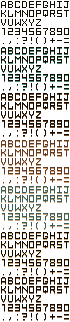
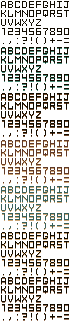
Add files via upload

diff --git a/ui.py b/ui.py
@@ -3,6 +3,7 @@ import math
 import random
 from classes import Player
 from fonts import *
+import fonts
 import dialogues
 from settings import *
 
@@ -10,17 +11,129 @@ pygame.init()
 
 health_font = pygame.font.SysFont("Ebrima", 20, bold=True)
 
-def draw_health(screen, player):
-    health_ratio = player.hp / player.max_hp
+# --- Cadres de barres pixel art (Health_bar.png / Xp_bar.png) ---
+# Chaque cadre est charge UNE seule fois, decoupe sur sa zone utile
+# puis agrandi sans lisser (scale_by = pixels carres nets).
+# Le remplissage (rouge/vert PV, bleu XP) est dessine DERRIERE le
+# cadre : on ne peint que les pixels TRANSPARENTS interieurs
+# (detectes une fois pour toutes), le cadre reste donc intact.
+BAR_SCALE = 5                    # densite de pixels commune aux 2 barres
+HP_BAR_POS = (20, 20)            # barre de vie en haut a gauche
+XP_BAR_POS = (20, 89)            # barre d'xp, juste sous les PV          # barre d'xp, juste sous les PV
 
-    pygame.draw.rect(screen, (255, 0, 0), (20, 20, 300, 30))
-    pygame.draw.rect(screen, (0, 255, 50), (20, 20, 300 * health_ratio, 30))
-    pygame.draw.rect(screen, (255, 255, 255), (20, 20, 300, 30), 3)
-        # pv / pv max affiches en blanc SUR la barre (vert ou rouge),
-    # sans changer sa taille. Fonction pour tous les soins
+
+
+def _runs_transparents(surface, y):
+    # liste des runs [x0, x1] de pixels transparents sur la ligne y
+    largeur = surface.get_width()
+    runs, cur = [], None
+    for x in range(largeur):
+        if surface.get_at((x, y))[3] == 0:
+            cur = [x, x] if cur is None else [cur[0], x]
+        else:
+            if cur:
+                runs.append(cur)
+                cur = None
+    if cur:
+        runs.append(cur)
+    return runs
+
+def _preparer_barre(chemin, y0, y1):
+    # charge le PNG, garde la bande (0, y0) -> (largeur, y1), detecte
+    # les fenetres interieures (runs transparents bordes d'opaque des
+    # deux cotes) et renvoie (zone, spans, cadre agrandi)
+    img = pygame.image.load(chemin).convert_alpha()
+    zone = img.subsurface((0, y0, img.get_width(), y1 - y0))
+    spans = {}
+    for y in range(zone.get_height()):
+        # un run qui touche un bord de la zone n'est pas remplissable
+        spans[y] = [tuple(r) for r in _runs_transparents(zone, y)
+                    if r[0] > 0 and r[1] < zone.get_width() - 1]
+    cadre = pygame.transform.scale_by(zone, BAR_SCALE)
+    return zone, spans, cadre
+
+HP_ZONE, HP_SPANS, HP_CADRE = _preparer_barre("Health_bar.png", 26, 38)
+XP_ZONE, XP_SPANS, XP_CADRE = _preparer_barre("Xp_bar.png", 0, 6)
+
+def _centre_fenetre(spans):
+    # centre (x, y) de la grande fenetre de remplissage (pour le texte)
+    ys = [y for y, runs in spans.items()
+          if any(r[1] - r[0] + 1 >= 30 for r in runs)]
+    meilleure = max((r for y in ys for r in spans[y]),
+                    key=lambda r: r[1] - r[0])
+    return ((meilleure[0] + meilleure[1] + 1) / 2,
+            (min(ys) + max(ys) + 1) / 2)
+
+HP_CENTRE = _centre_fenetre(HP_SPANS)
+
+def _remplissage_barre(zone, spans, ratio, couleur_fond, couleur_jauge):
+    # long rectangle coupe en biseau au lieu de remplir chaque fenetre :
+    # fond et jauge sont dessines d'un trait, 1 px plus LARGE que la
+    # fenetre, et le cadre opaque recouvre le surplus (le vert passe
+    # donc SOUS le bord en diagonale du cadre)
+    surf = zone.copy()
+    lignes = [(y, runs[0]) for y, runs in sorted(spans.items()) if runs]
+    if lignes:
+        gauche = min(r[0] for _, r in lignes)
+        y_ref, r_ref = max(lignes, key=lambda t: t[1][1])
+        droit_max = r_ref[1]
+        total = droit_max - gauche + 1
+        limite = gauche + int(total * ratio)      # bord vertical de la jauge
+        for y, _ in lignes:
+            droit = droit_max - (y - y_ref) + 1   # biseau parallele au cadre
+            pygame.draw.line(surf, couleur_fond, (gauche, y), (droit, y))
+            if limite > gauche:
+                pygame.draw.line(surf, couleur_jauge, (gauche, y),
+                                 (min(droit, limite - 1), y))
+    return pygame.transform.scale_by(surf, BAR_SCALE)
+HP_TEXT_SCALE = 2     # chiffres 7x9 de Text3 agrandis x2 (~18 px de haut)
+
+def _draw_hp_text(screen, texte, cx, cy, echelle=None, centered=True,
+                  police=None):
+    # "X/Y" centre sur (cx, cy) : chiffres blancs de Text3 (planche
+    # titre, meme grille que Text1) et slash blanc normal dessine a
+    # la main (la planche n'a pas de glyphe "/").
+    if echelle is None:
+        echelle = HP_TEXT_SCALE
+    if police is None:
+        police = fonts.lettersT3
+    haut = 9 * echelle
+    slash_largeur = 4 * echelle
+    largeur = 0
+    for char in texte:
+        if char == "/":
+            largeur += slash_largeur
+        elif char in police:
+            largeur += 7 * echelle
+        largeur += echelle                      # petit ecart
+    largeur -= echelle
+    x = cx - largeur // 2
+    y = cy - haut // 2
+    for char in texte:
+        if char == "/":
+            pygame.draw.line(screen, (255, 255, 255),
+                             (x, y + haut - 1),
+                             (x + slash_largeur - echelle, y + 1), echelle)
+            x += slash_largeur + echelle
+        elif char in police:
+            sprite = pygame.transform.scale(fonts.lettersT3[char],
+                                            (7 * echelle, haut))
+            screen.blit(sprite, (x, y))
+            x += 7 * echelle + echelle
+def draw_health(screen, player):
+    health_ratio = max(0, min(1, player.hp / player.max_hp))
+
+    # fond rouge puis jauge verte DERRIERE le cadre de fer pixel art
+    remplissage = _remplissage_barre(HP_ZONE, HP_SPANS, health_ratio,
+                                     (255, 0, 0), (0, 255, 50))
+    screen.blit(remplissage, HP_BAR_POS)
+    screen.blit(HP_CADRE, HP_BAR_POS)
+    # pv / pv max affiches en blanc SUR la fenetre de la barre (vert ou
+    # rouge), sans changer sa taille. Fonction pour tous les soins
     # (potion, pomme doree, healer) car tout passe par player.hp/max_hp.
-    hp_text = health_font.render(f"{int(player.hp)}/{int(player.max_hp)}", True, (255, 255, 255))
-    screen.blit(hp_text, (20 + (300 - hp_text.get_width()) // 2, 20 + (30 - hp_text.get_height()) // 2))
+    cx = HP_BAR_POS[0] + 3+int(HP_CENTRE[0] * BAR_SCALE)
+    cy = HP_BAR_POS[1] + int(HP_CENTRE[1] * BAR_SCALE)
+    _draw_hp_text(screen, f"{int(player.hp)}/{int(player.max_hp)}", cx, cy)
 
 def draw_level(screen, current_level, current_wave, game_state):
     level_text = font.render(f"Niveau {current_level}", True, (255, 255, 255))
@@ -53,26 +166,30 @@ def draw_transition(screen, transition, current_level, current_wave, game_state)
     screen.blit(txt2,(screen.get_width()/2-txt2.get_width()/2,270))
 
 def draw_coins(screen, player):
-    coin_text = coin_font.render(f"Pieces : {player.coins}", True, (255,230,0))
-    screen.blit(coin_text,(20,84))
-
+    # "PIECES : N" entierement en jaune : lettres et chiffres de Text4
+    _draw_hp_text(screen, f"PIECES : {player.coins}", 20, 135,
+                  echelle=2, centered=False, police=fonts.lettersT4)
+    
 def draw_xp_bar(screen, player):
     # Barre d'xp : SOUS les PV, AU-DESSUS de l'or. Plus courte et
     # plus fine que la barre de vie, bleue comme les orbes. Le
     # compteur de niveau est affiche juste a droite de la barre.
     ratio = max(0, min(1, player.xp / player.xp_required()))
-    pygame.draw.rect(screen, (30, 30, 45), (20, 56, XP_BAR_WIDTH, XP_BAR_HEIGHT))
-    pygame.draw.rect(screen, XP_ORB_COLOR, (20, 56, int(XP_BAR_WIDTH * ratio), XP_BAR_HEIGHT))
-    pygame.draw.rect(screen, (255, 255, 255), (20, 56, XP_BAR_WIDTH, XP_BAR_HEIGHT), 2)
 
-    level_text = coin_font.render(str(player.xp_level), True, (255, 255, 255))
-    screen.blit(level_text, (20 + XP_BAR_WIDTH + 12,
-        56 - (level_text.get_height() - XP_BAR_HEIGHT) // 2))
+    # fond sombre puis jauge bleue DERRIERE le cadre de fer pixel art
+    remplissage = _remplissage_barre(XP_ZONE, XP_SPANS, ratio,
+                                     (30, 30, 45), XP_ORB_COLOR)
+    screen.blit(remplissage, XP_BAR_POS)
+    screen.blit(XP_CADRE, XP_BAR_POS)
 
+        # niveau d'xp en chiffres blancs Text3, au centre de la barre
+    _draw_hp_text(screen, str(player.xp_level),
+                  XP_BAR_POS[0] + XP_CADRE.get_width() // 2,
+                  XP_BAR_POS[1] + XP_CADRE.get_height() // 2, echelle=2)
 def draw_player_level(screen, player):
     # Compteur de niveau de personnage, sous le compteur de pieces
     level_text = coin_font.render(f"Compétences : niv {player.level}", True, (170, 190, 255))
-    screen.blit(level_text, (20, 130))
+    screen.blit(level_text, (20, 163))
 
 def draw_hotbar(screen, player):
     slot_size = 64

diff --git a/fonts.py b/fonts.py
@@ -7,8 +7,13 @@ coin_font = pygame.font.SysFont("Ebrima", 32, bold=True)
 
 def load_font():
 	global title_font_sheet, corp_font_sheet, lettersT1, lettersC1, lettersC6, glyph_width, lettersC4
+	global title3_font_sheet, lettersT3
+	global title4_font_sheet, lettersT4
 	title_font_sheet = pygame.image.load("Text1.png").convert_alpha()
 	corp_font_sheet = pygame.image.load("Text2.png").convert_alpha()
+	title3_font_sheet = pygame.image.load("Text3.png").convert_alpha()
+	title4_font_sheet = pygame.image.load("Text4.png").convert_alpha()
+
 
 	corp_font_chars = [
 	"A","B","C","D","E","F","G","H","I","J",
@@ -74,6 +79,18 @@ def load_font():
 			 "-" : title_font_sheet.subsurface((56, 36.8, 7, 9.2)),
 			 "=" : title_font_sheet.subsurface((63, 36.8, 7, 9.2)),
 }
+
+		# Chiffres blancs de Text3 : meme grille 7x9.2 que Text1, bloc C1
+	# (offset 0). Si un jour les chiffres blancs passent dans un autre
+	# bloc de la planche, il suffit de changer T3_OFFSET_Y de 46 en 46.
+	T3_OFFSET_Y = 0.0
+		# Text4 : TOUTES les lettres ET chiffres en jaune (bloc C1)
+	lettersT3 = build_title_font(title3_font_sheet, T3_OFFSET_Y)
+
+		# Chiffres jaunes de Text4 : meme grille que Text3 (bloc C1)
+		# Text4 : TOUTES les lettres ET chiffres en jaune (bloc C1)
+	lettersT4 = build_title_font(title4_font_sheet, T3_OFFSET_Y)
+		
 	lettersC1 = build_body_font(
 	corp_font_sheet,
 	corp_font_chars,
@@ -112,6 +129,17 @@ def build_body_font(sheet, chars, cols, cell_w, cell_h, offset_y=0):
 		y = (i // cols) * cell_h + offset_y
 		font[char] = sheet.subsurface(
 			(x, y, cell_w, cell_h))
+	return font
+
+def build_title_font(sheet, offset_y=0.0):
+	# dictionnaire complet de la police titre (meme grille 7x9.2 que
+	# Text1) : lettres, espace, chiffres et ponctuation d'un bloc
+	lignes = ["ABCDEFGHIJ", "KLMNOPQRST", "UVWXYZ ",
+			  "1234567890", ".,:?!()+-="]
+	font = {}
+	for r, ligne in enumerate(lignes):
+		for c, char in enumerate(ligne):
+			font[char] = sheet.subsurface((c * 7, r * 9.2 + offset_y, 7, 9.2))
 	return font
 
 def draw_text(surface, text, x, y, scale=1, spacing=0, centered=False):
